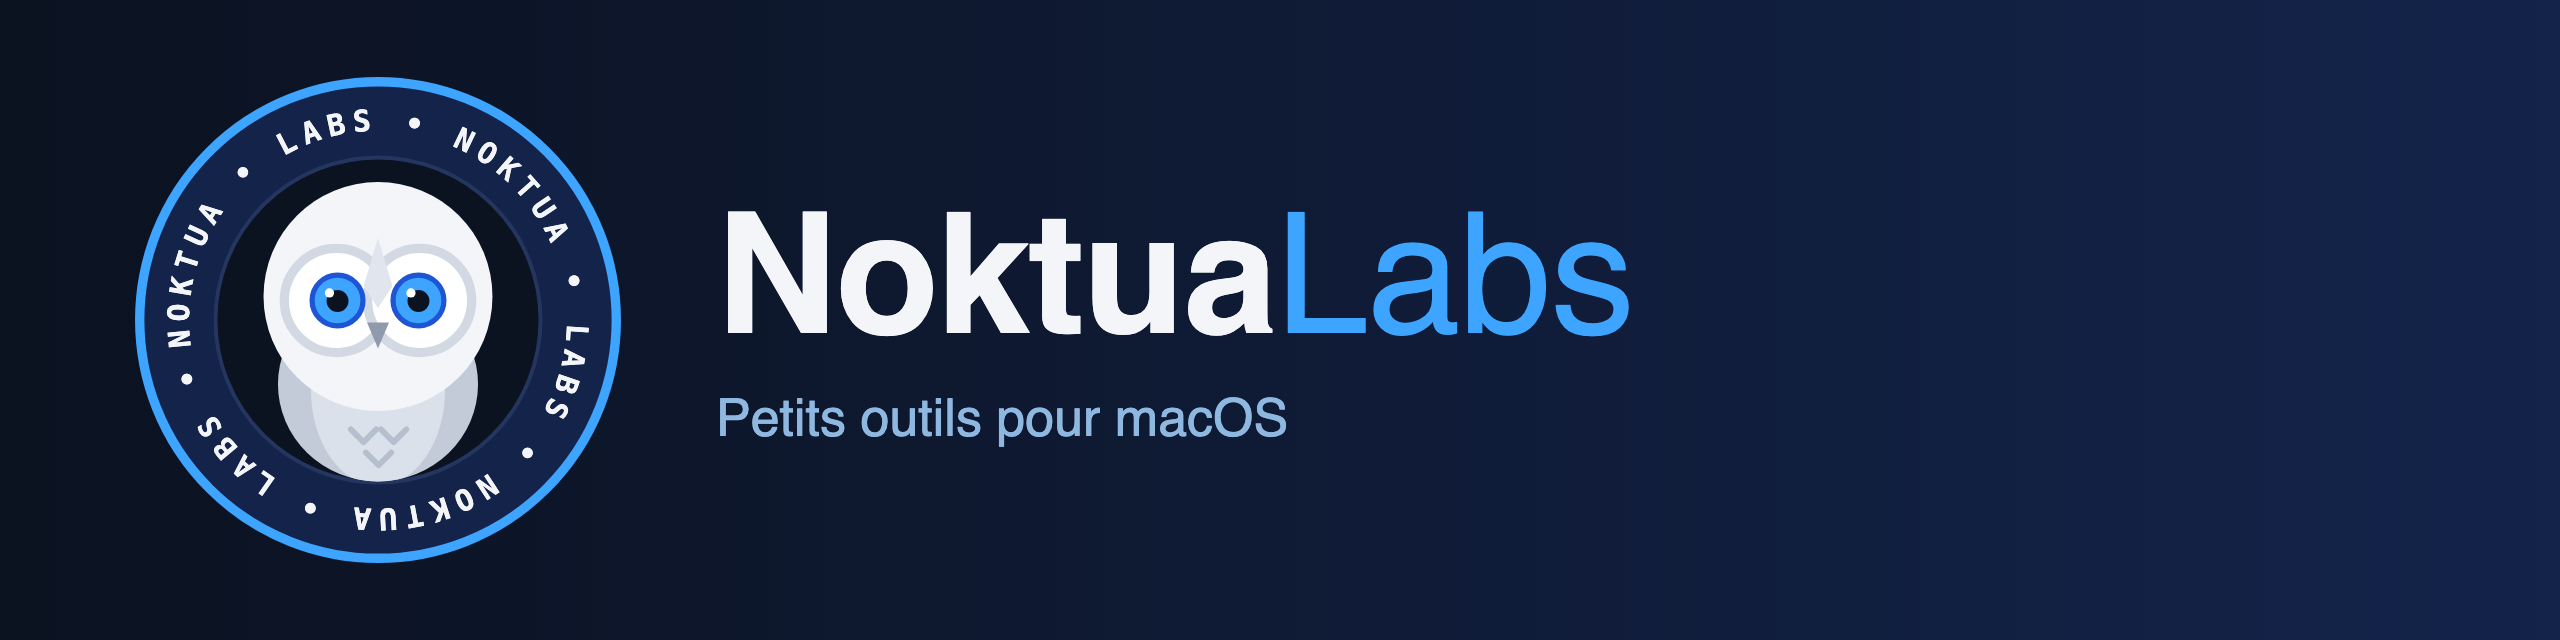
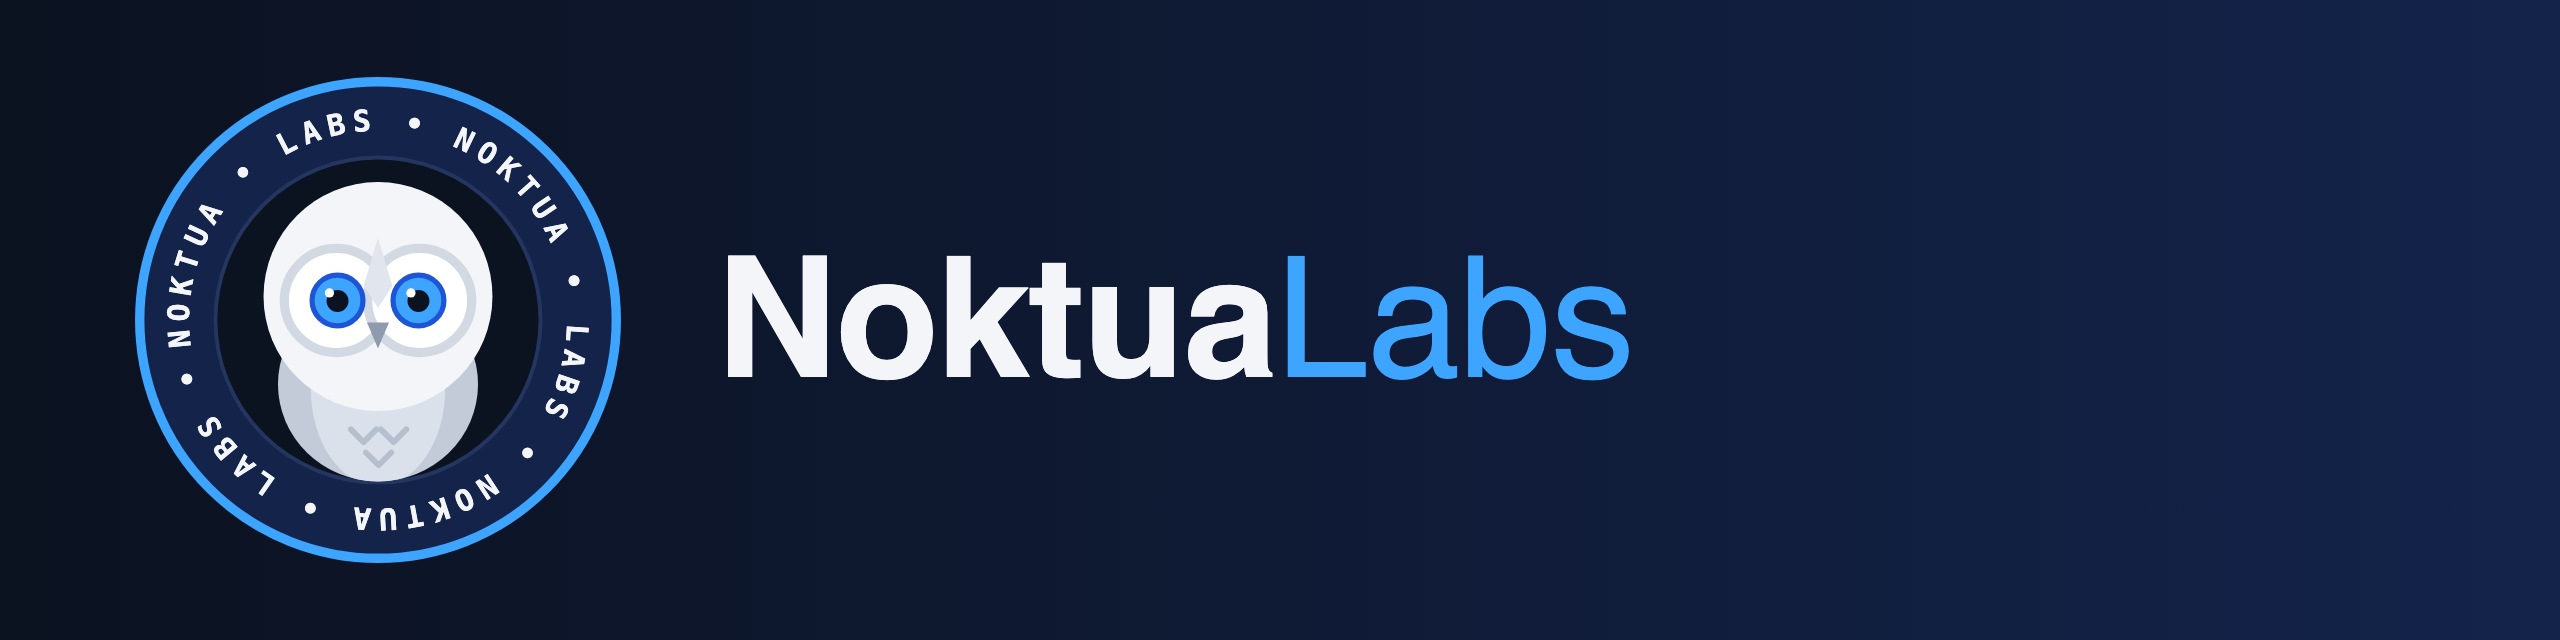
Profil : sans « Petits outils pour macOS »

Changed region(s): [[0.2812, 0.3125, 0.6562, 0.5938], [0.2812, 0.625, 0.5, 0.6875]]

diff --git a/profile/README.md b/profile/README.md
@@ -1,6 +1,4 @@
-![NoktuaLabs — petits outils pour macOS](noktualabs-banniere.png)
-
-Petits outils pour macOS, discrets et faits avec soin.
+![NoktuaLabs](noktualabs-banniere.png)
 
 | App | Ce qu'elle fait | Télécharger |
 |---|---|---|
